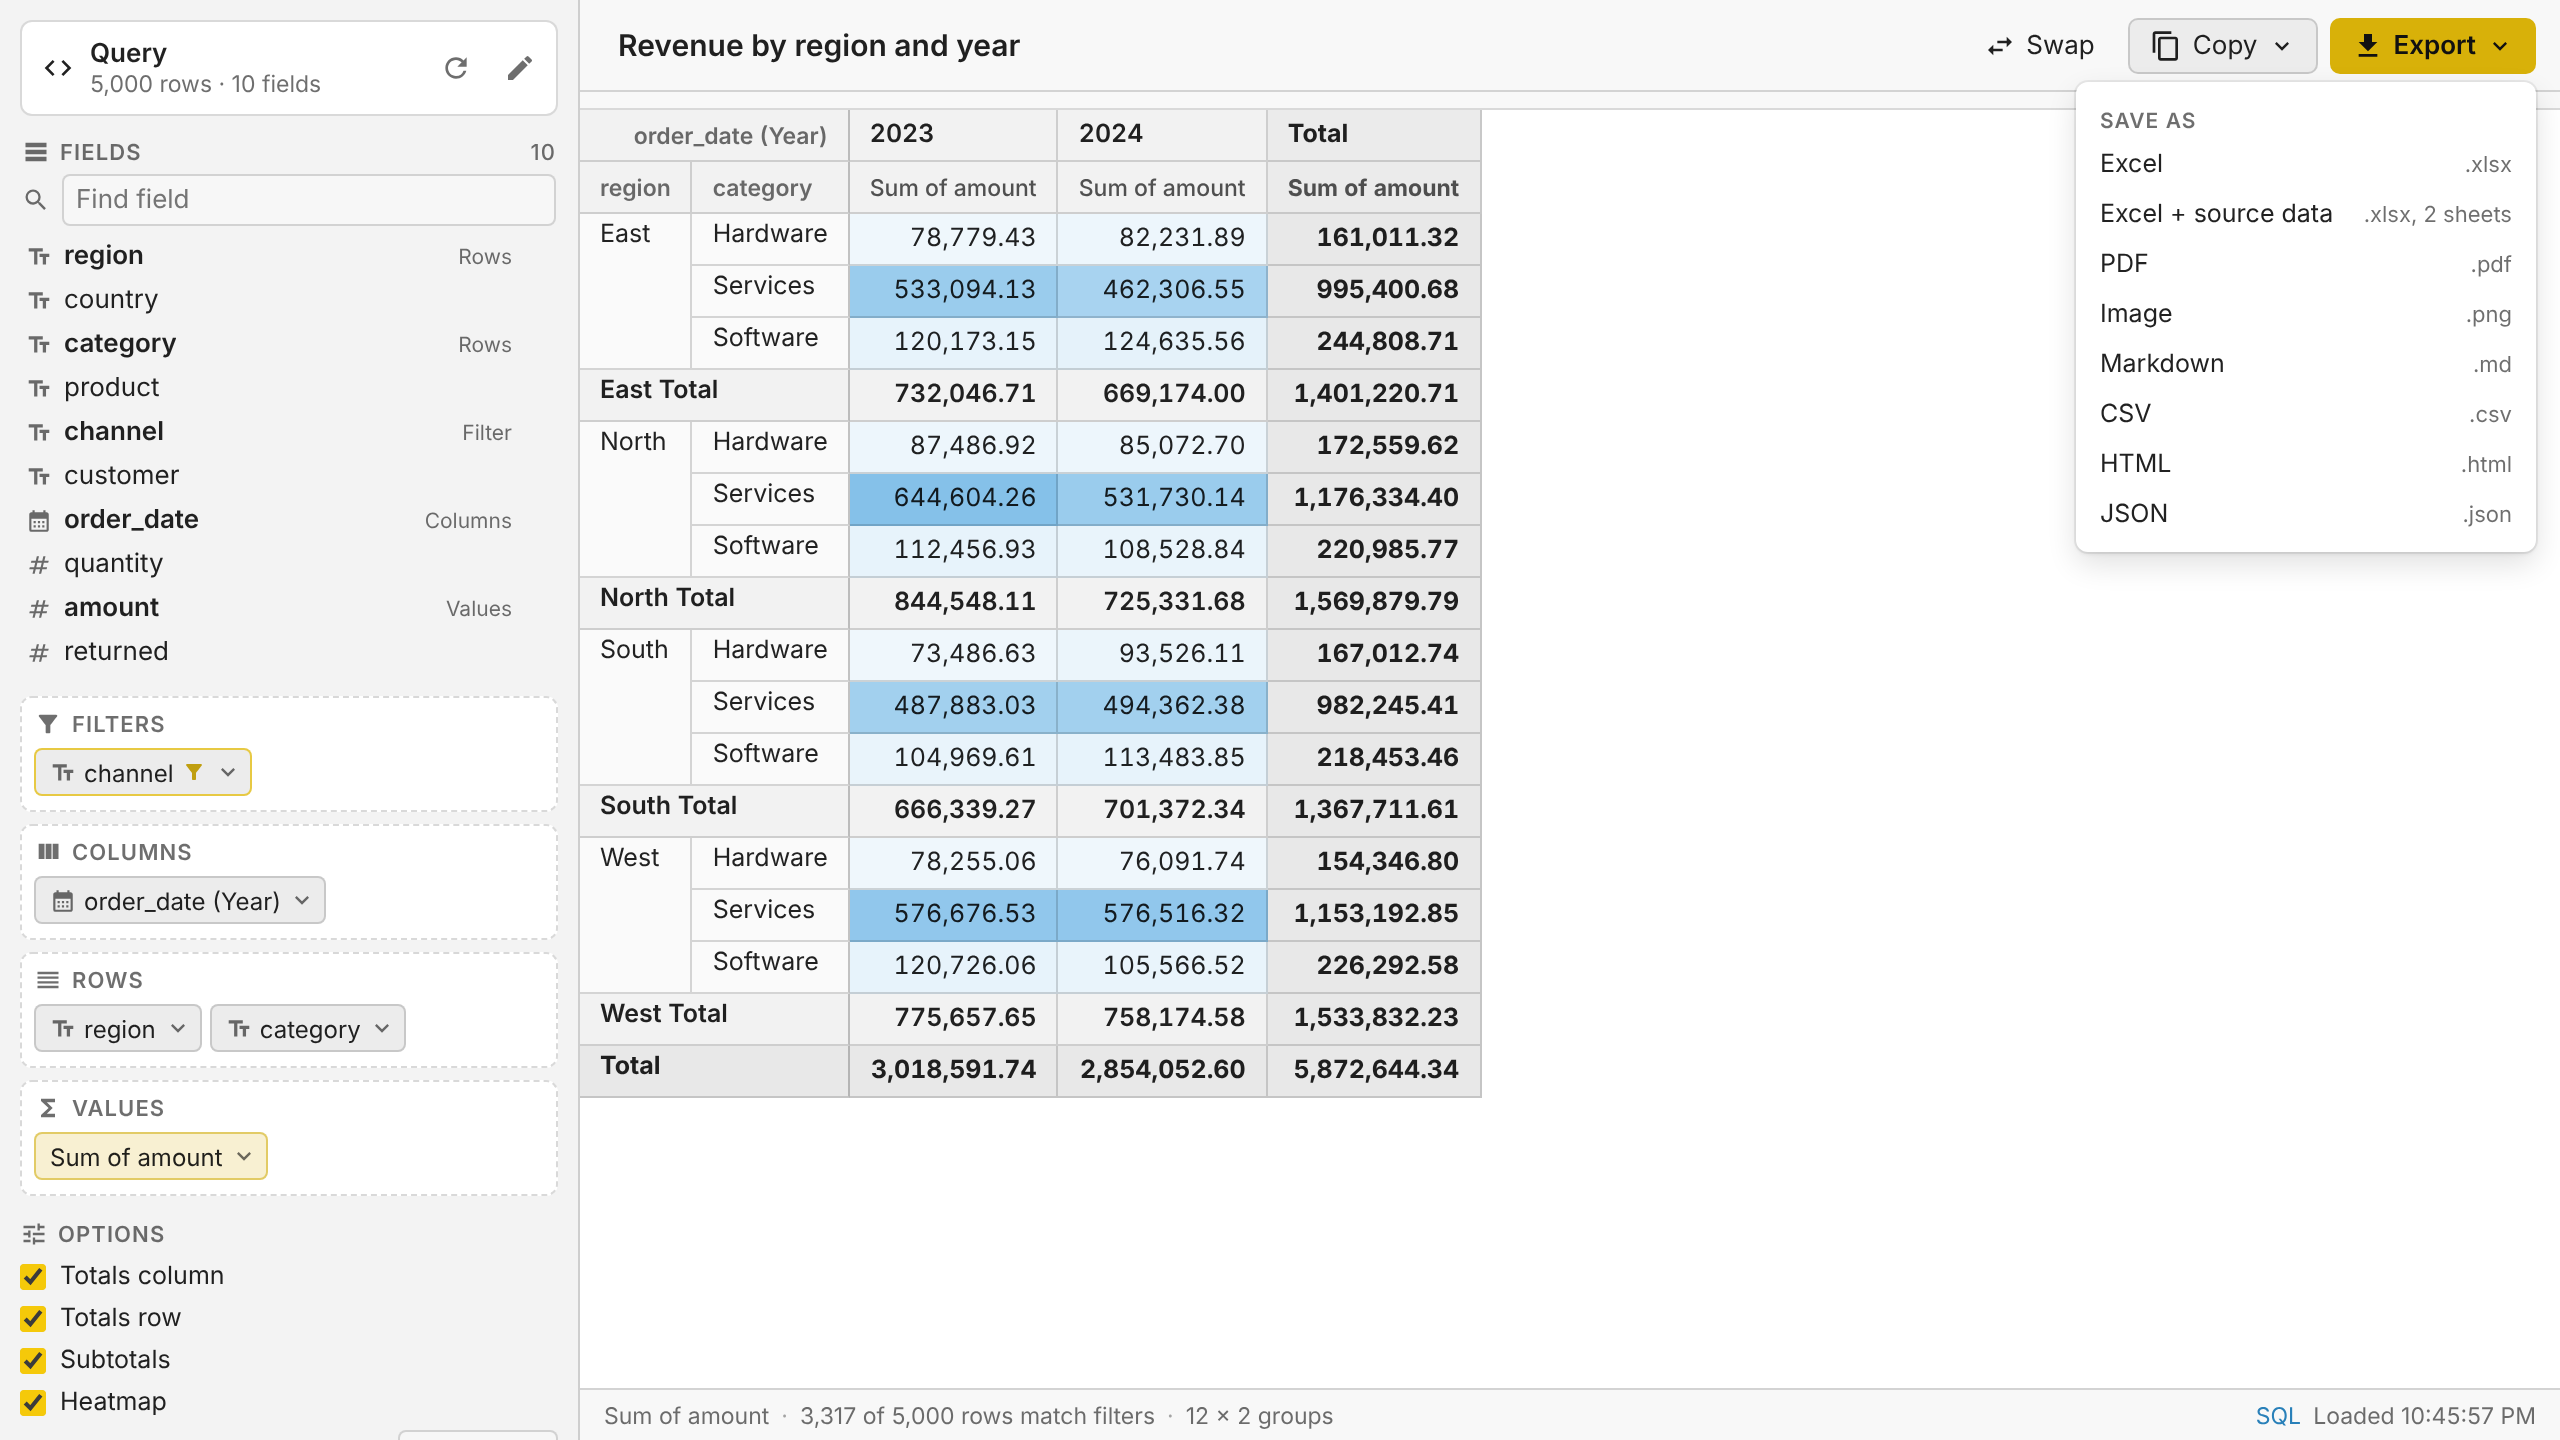
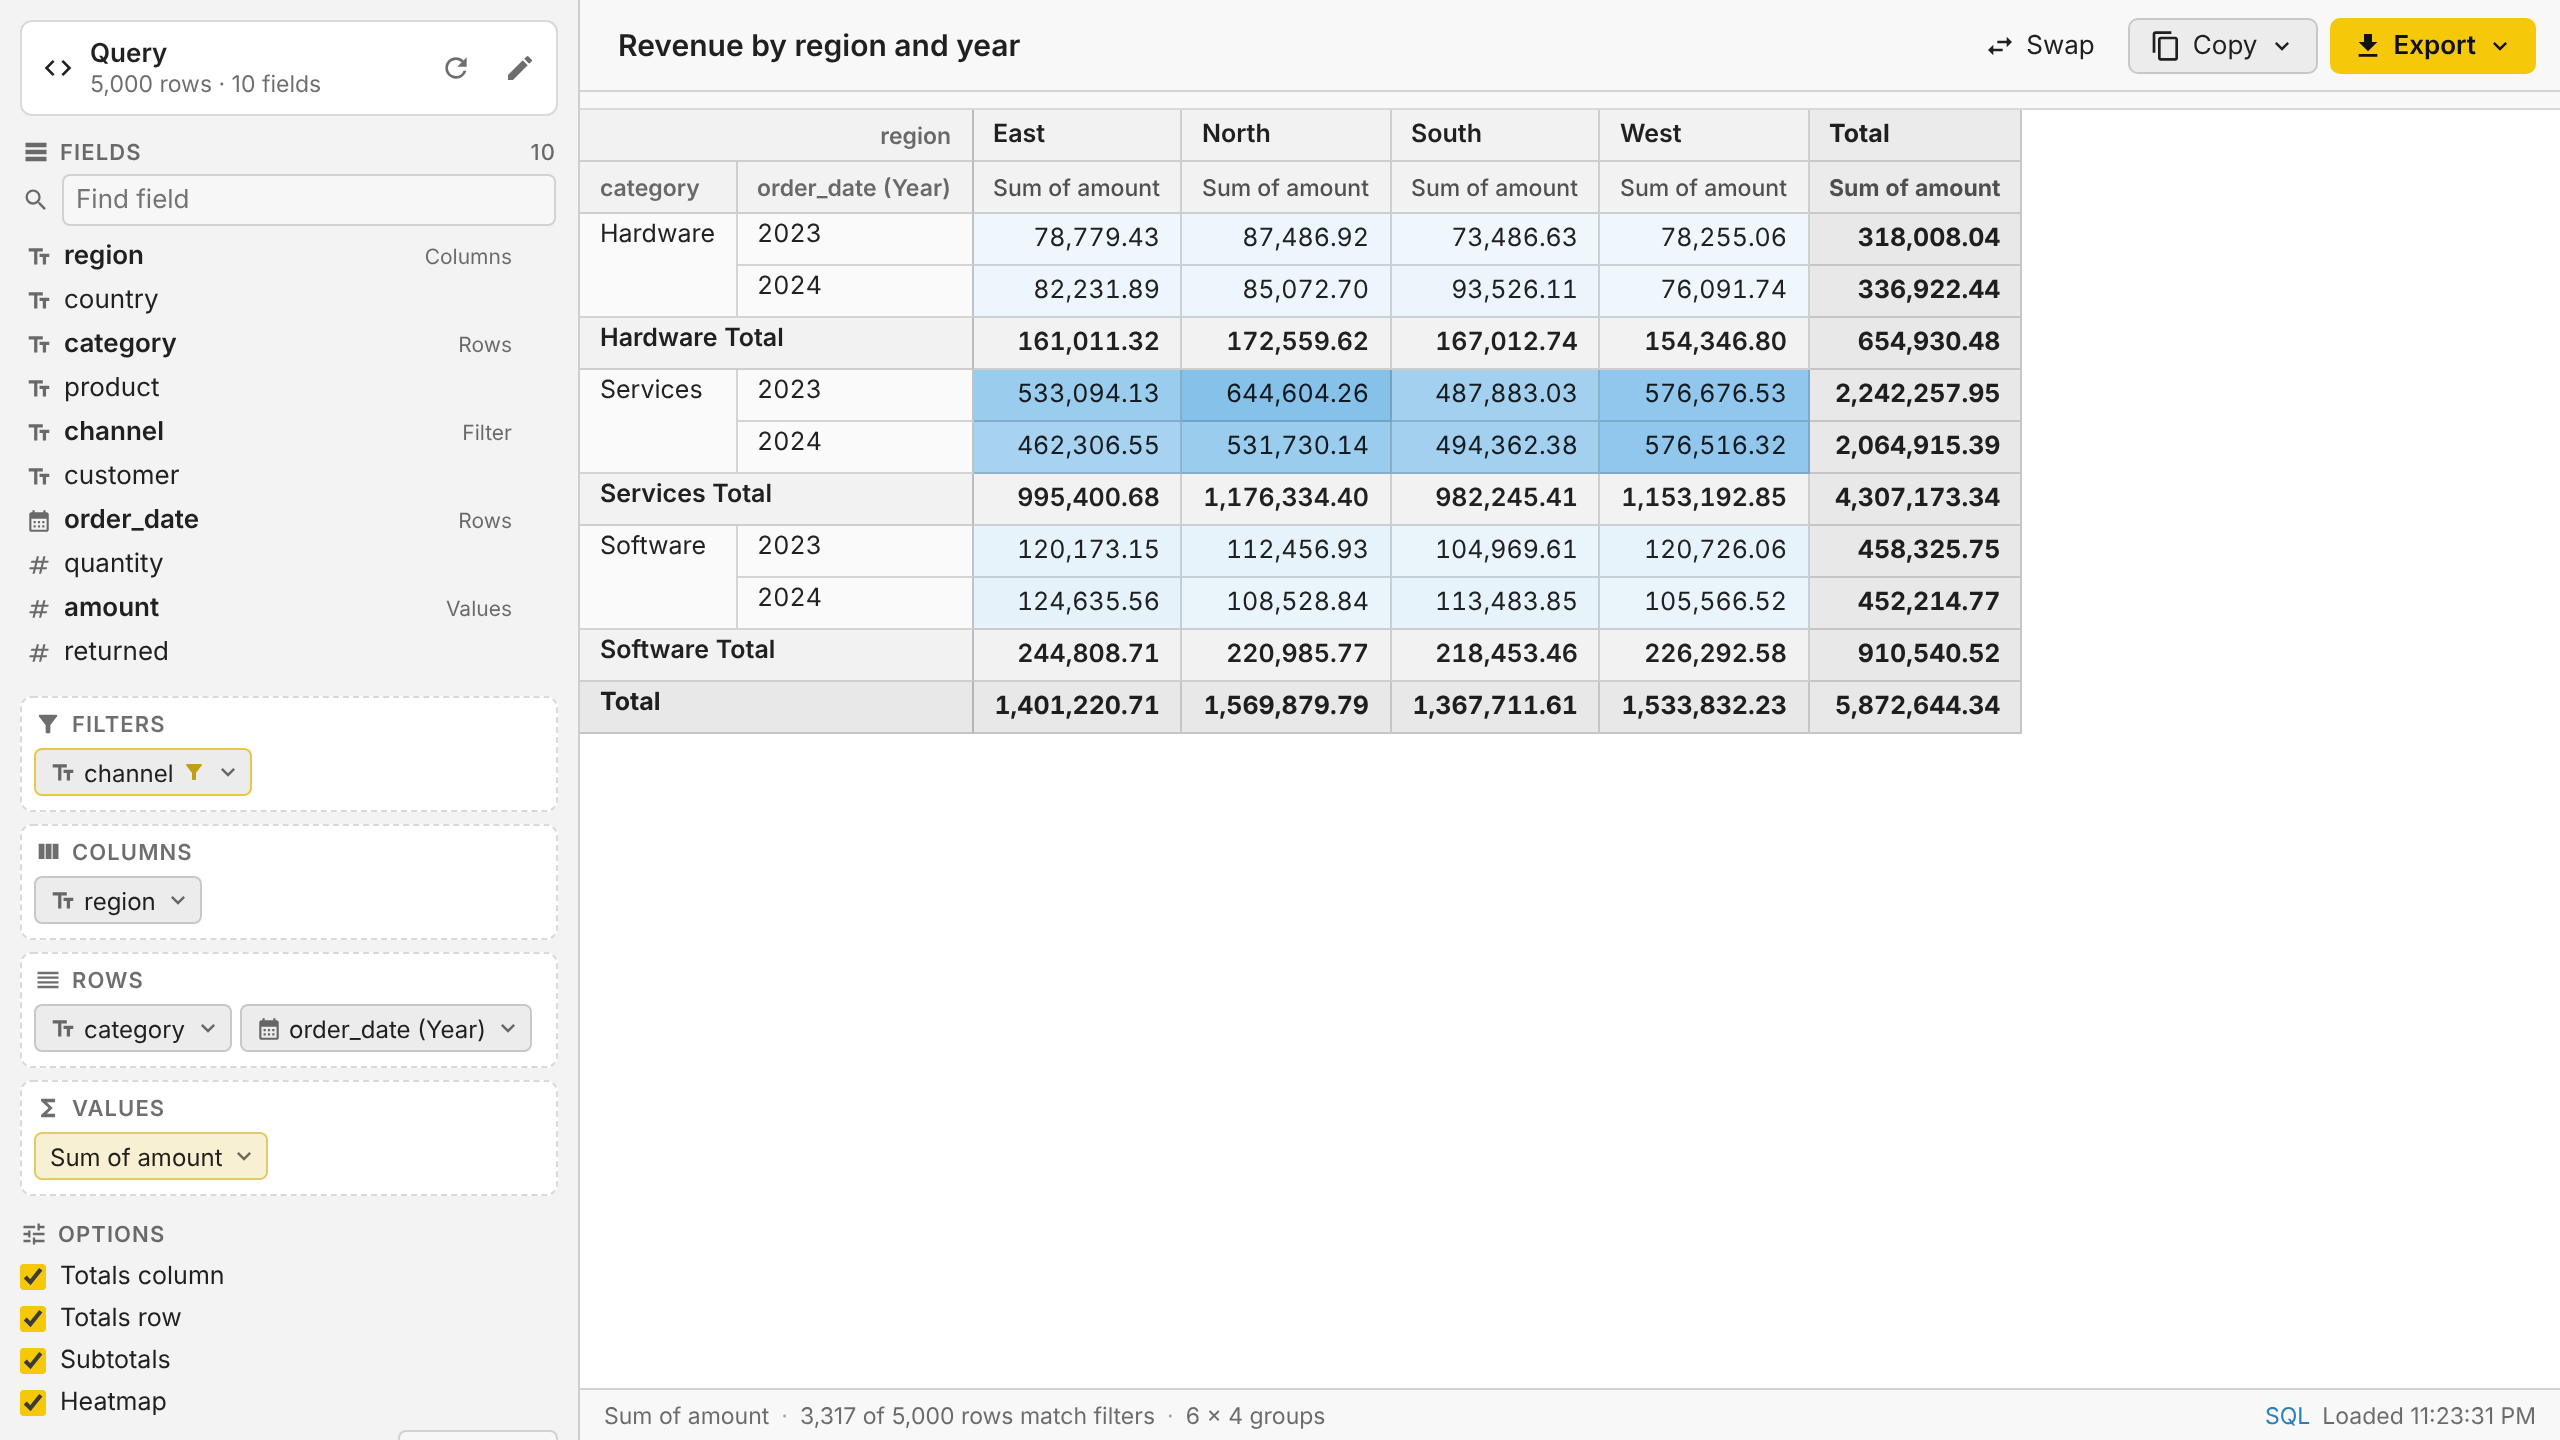
Add demo GIF and feature overview to README
- Animated walkthrough at the top of the README (docs/demo.gif)
- Feature overview: building, summarizing, grouping, layout, exports
- Example image export and matching light/dark screenshots
- scripts/record-demo.cjs re-records the GIF from the dev harness

diff --git a/README.md b/README.md
@@ -1,31 +1,99 @@
 # Pivot Tables for Beekeeper Studio
 
-Build pivot tables from query results, grid selections or whole tables in
-[Beekeeper Studio](https://www.beekeeperstudio.io), then export them to Excel, PDF,
-Markdown, CSV, HTML, JSON or a PNG image.
+Turn any query result, grid selection or table in [Beekeeper Studio](https://www.beekeeperstudio.io)
+into a pivot table, then share it as an Excel workbook, PDF, image, Markdown, CSV, HTML or JSON.
 
-![Pivot table built from an orders query, with a heatmap](docs/screenshot.png)
+![Building a pivot table: dragging fields into rows, columns and values, grouping dates by year, adding subtotals, a heatmap and a filter, then exporting](docs/demo.gif)
 
-## Features
+<sub>Recorded in the plugin's dev harness with 5,000 sample orders. Sped up slightly.</sub>
 
-- **Drag-and-drop builder** with Rows, Columns, Values and Filters, like a spreadsheet pivot table.
-- **Aggregations:** count, count distinct, sum, average, minimum, maximum, median, standard
-  deviation, variance, first and last. Several values can be shown side by side.
-- **Show values as** a percentage of the grand total, row total or column total.
-- **Date grouping** by year, quarter, month, ISO week, day, hour, month of year or day of week.
-- **Value filters** with search, "only this value", and counts for each value.
-- **Sorting** by label (A→Z, Z→A) or by value (largest or smallest first).
-- **Layout options:** totals column, totals row, subtotals, values in columns or rows, fixed
-  decimal places and a heatmap.
-- **Exports:**
-  - Excel (`.xlsx`): merged headers, number and percentage formats, frozen panes. The
-    "Excel + source data" option adds a sheet with the loaded rows so they can be re-pivoted in Excel.
-  - PDF: fits the page where it can and splits very wide pivots into column slices that repeat
-    the row labels. Embeds a Unicode font when the data needs one (Cyrillic, Greek and more).
-  - PNG image, Markdown, CSV, HTML and JSON.
-- **Copy** for a spreadsheet (tab separated, pastes into Excel or Google Sheets), as Markdown, or
-  as an image.
-- Follows the app theme, and each tab saves its layout.
+## Features at a glance
+
+|                         |                                                                                                    |
+| ----------------------- | -------------------------------------------------------------------------------------------------- |
+| **Drag-and-drop**       | Rows, Columns, Values and Filters, like a spreadsheet pivot table                                  |
+| **11 aggregations**     | Count, count distinct, sum, average, min, max, median, std deviation, variance, first, last        |
+| **% of total**          | Show any value as a share of the grand, row or column total                                        |
+| **Date grouping**       | Year, quarter, month, week, day, hour, month of year, day of week                                  |
+| **Filters and sorting** | Pick values with search and counts; sort A→Z, Z→A or by value                                      |
+| **Layout**              | Totals, subtotals, values in columns or rows, fixed decimals, heatmap                              |
+| **8 export formats**    | Excel, Excel + source data, PDF, PNG, Markdown, CSV, HTML, JSON                                    |
+| **3 ways to copy**      | Spreadsheet cells, Markdown table, image                                                           |
+| **Any data source**     | Grid selections, queries, tables (with the tab's filters), up to 100,000 rows                      |
+| **Fits in**             | Follows the light or dark theme, saves each tab's layout, runs locally with no network calls       |
+
+## Building a pivot
+
+Every column of the data appears in the **Fields** list. Drag a field into a zone, or click it and
+choose where it goes:
+
+- **Rows** and **Columns** group the data. Stack several fields to nest groups, and drag chips
+  to reorder them. **Swap** flips rows and columns.
+- **Values** are the numbers in the cells. The same field can be added more than once, for
+  example to show its sum and its average side by side. With no values, the pivot counts rows.
+- **Filters** narrow the data without adding a row or column.
+
+Drag a chip back to the field list to remove it. Click any chip for its options.
+
+### Summarizing values
+
+Click a value chip to change what it shows:
+
+| Summarize by                                              | Works on                                    |
+| --------------------------------------------------------- | ------------------------------------------- |
+| Count, count distinct                                     | Any column, or rows when no field is picked |
+| Sum, average, median, standard deviation, variance        | Numbers, including numeric text             |
+| Minimum, maximum                                          | Numbers, dates and text                     |
+| First, last                                               | Any column                                  |
+
+**Show as** turns a value into a percentage of the grand total, its row total or its column total.
+
+### Grouping, filtering and sorting
+
+Click a row, column or filter chip for:
+
+- **Group dates by** year, quarter, month, ISO week, day, hour, month of year or day of week.
+  Dates are grouped as written in the database, so time zones don't shift them.
+- **Show values:** a checklist of every value with its row count, a search box, All / None, and
+  "only" to keep a single value. Filtered chips are highlighted.
+- **Sort** labels A→Z or Z→A (numbers sort numerically, nulls go last), or by the size of
+  the first value, largest or smallest first.
+
+### Layout options
+
+Under **Options** in the sidebar:
+
+- **Totals column** and **totals row** for grand totals, and **subtotals** for each group
+  when rows or columns are nested.
+- **Values in** columns or rows, for pivots with several values.
+- **Decimals:** auto (whole numbers stay whole, other values use 2 places, percentages 1) or a
+  fixed 0 to 4 places.
+- **Heatmap** shades each value from its smallest to its largest.
+
+The title at the top names the tab and appears on exports.
+
+## Exporting and sharing
+
+**Export** saves a file. Exports always contain the whole pivot, even when the on-screen grid only
+shows the first rows of a very large one.
+
+| Format                  | What you get                                                                                                     |
+| ----------------------- | ---------------------------------------------------------------------------------------------------------------- |
+| **Excel**               | Merged headers, number and percentage formats, bold totals and frozen header rows and label columns              |
+| **Excel + source data** | The same workbook with a second sheet of the loaded rows, ready to re-pivot in Excel                              |
+| **PDF**                 | Landscape when wide. Shrinks to fit where it can and splits very wide pivots into pages that repeat the row labels |
+| **Image**               | A sharp PNG with the title, source and filters, ready for slides, docs or chat                                    |
+| **Markdown**            | A GitHub-style table for READMEs, issues and wikis                                                               |
+| **CSV**                 | One header row and raw numbers, with row labels repeated on every row                                            |
+| **HTML**                | A standalone styled page that keeps merged headers                                                               |
+| **JSON**                | One object per row, keyed by column header                                                                       |
+
+**Copy** puts the pivot on the clipboard as spreadsheet cells (pastes into Excel or Google
+Sheets, percentages included), as a Markdown table, or as an image.
+
+This is the PNG the **Image** export produces for the pivot in the demo:
+
+![Image export of the revenue pivot, with title, source and filter summary](docs/export-example.png)
 
 ## Opening a pivot table
 
@@ -40,7 +108,8 @@ To pivot a whole result set from the grid, select every cell first (click the to
 the grid or press Ctrl/Cmd+A), then right-click.
 
 The data source can be changed at any time with the pencil button in the sidebar, which accepts a
-SQL query or a table with an optional `WHERE` clause.
+SQL query or a table with an optional `WHERE` clause. **SQL** in the status bar shows the exact
+query that loaded the data.
 
 ## Row limits
 
@@ -57,6 +126,14 @@ default, configurable up to 100,000 (the choice is remembered).
 - A banner shows when the limit was reached. Totals only cover the rows that were loaded.
 - When a saved tab is reopened, query sources wait for a click on **Run query** instead of
   running automatically. Selections and tables load straight away.
+
+## Light and dark themes
+
+The plugin uses Beekeeper Studio's theme colors and switches along with the app.
+
+| Light                                                      | Dark                                                           |
+| ---------------------------------------------------------- | -------------------------------------------------------------- |
+| ![Pivot table in the light theme](docs/screenshot.png)      | ![Pivot table in the dark theme](docs/screenshot-dark.png)      |
 
 ## Installing
 
@@ -96,6 +173,14 @@ parameters:
 - `theme=light|dark` sets the theme.
 - `fresh=1` clears the saved tab state.
 - `prod=1` loads the production build from `dist/` (run `yarn build` first).
+
+`docs/demo.gif` is recorded from the harness by `scripts/record-demo.cjs`, so it can be
+re-recorded after UI changes. With `yarn harness` running:
+
+```bash
+npm install -g playwright && npx playwright install chromium   # once; also needs ffmpeg
+NODE_PATH="$(npm root -g)" node scripts/record-demo.cjs
+```
 
 ### Project layout
 
